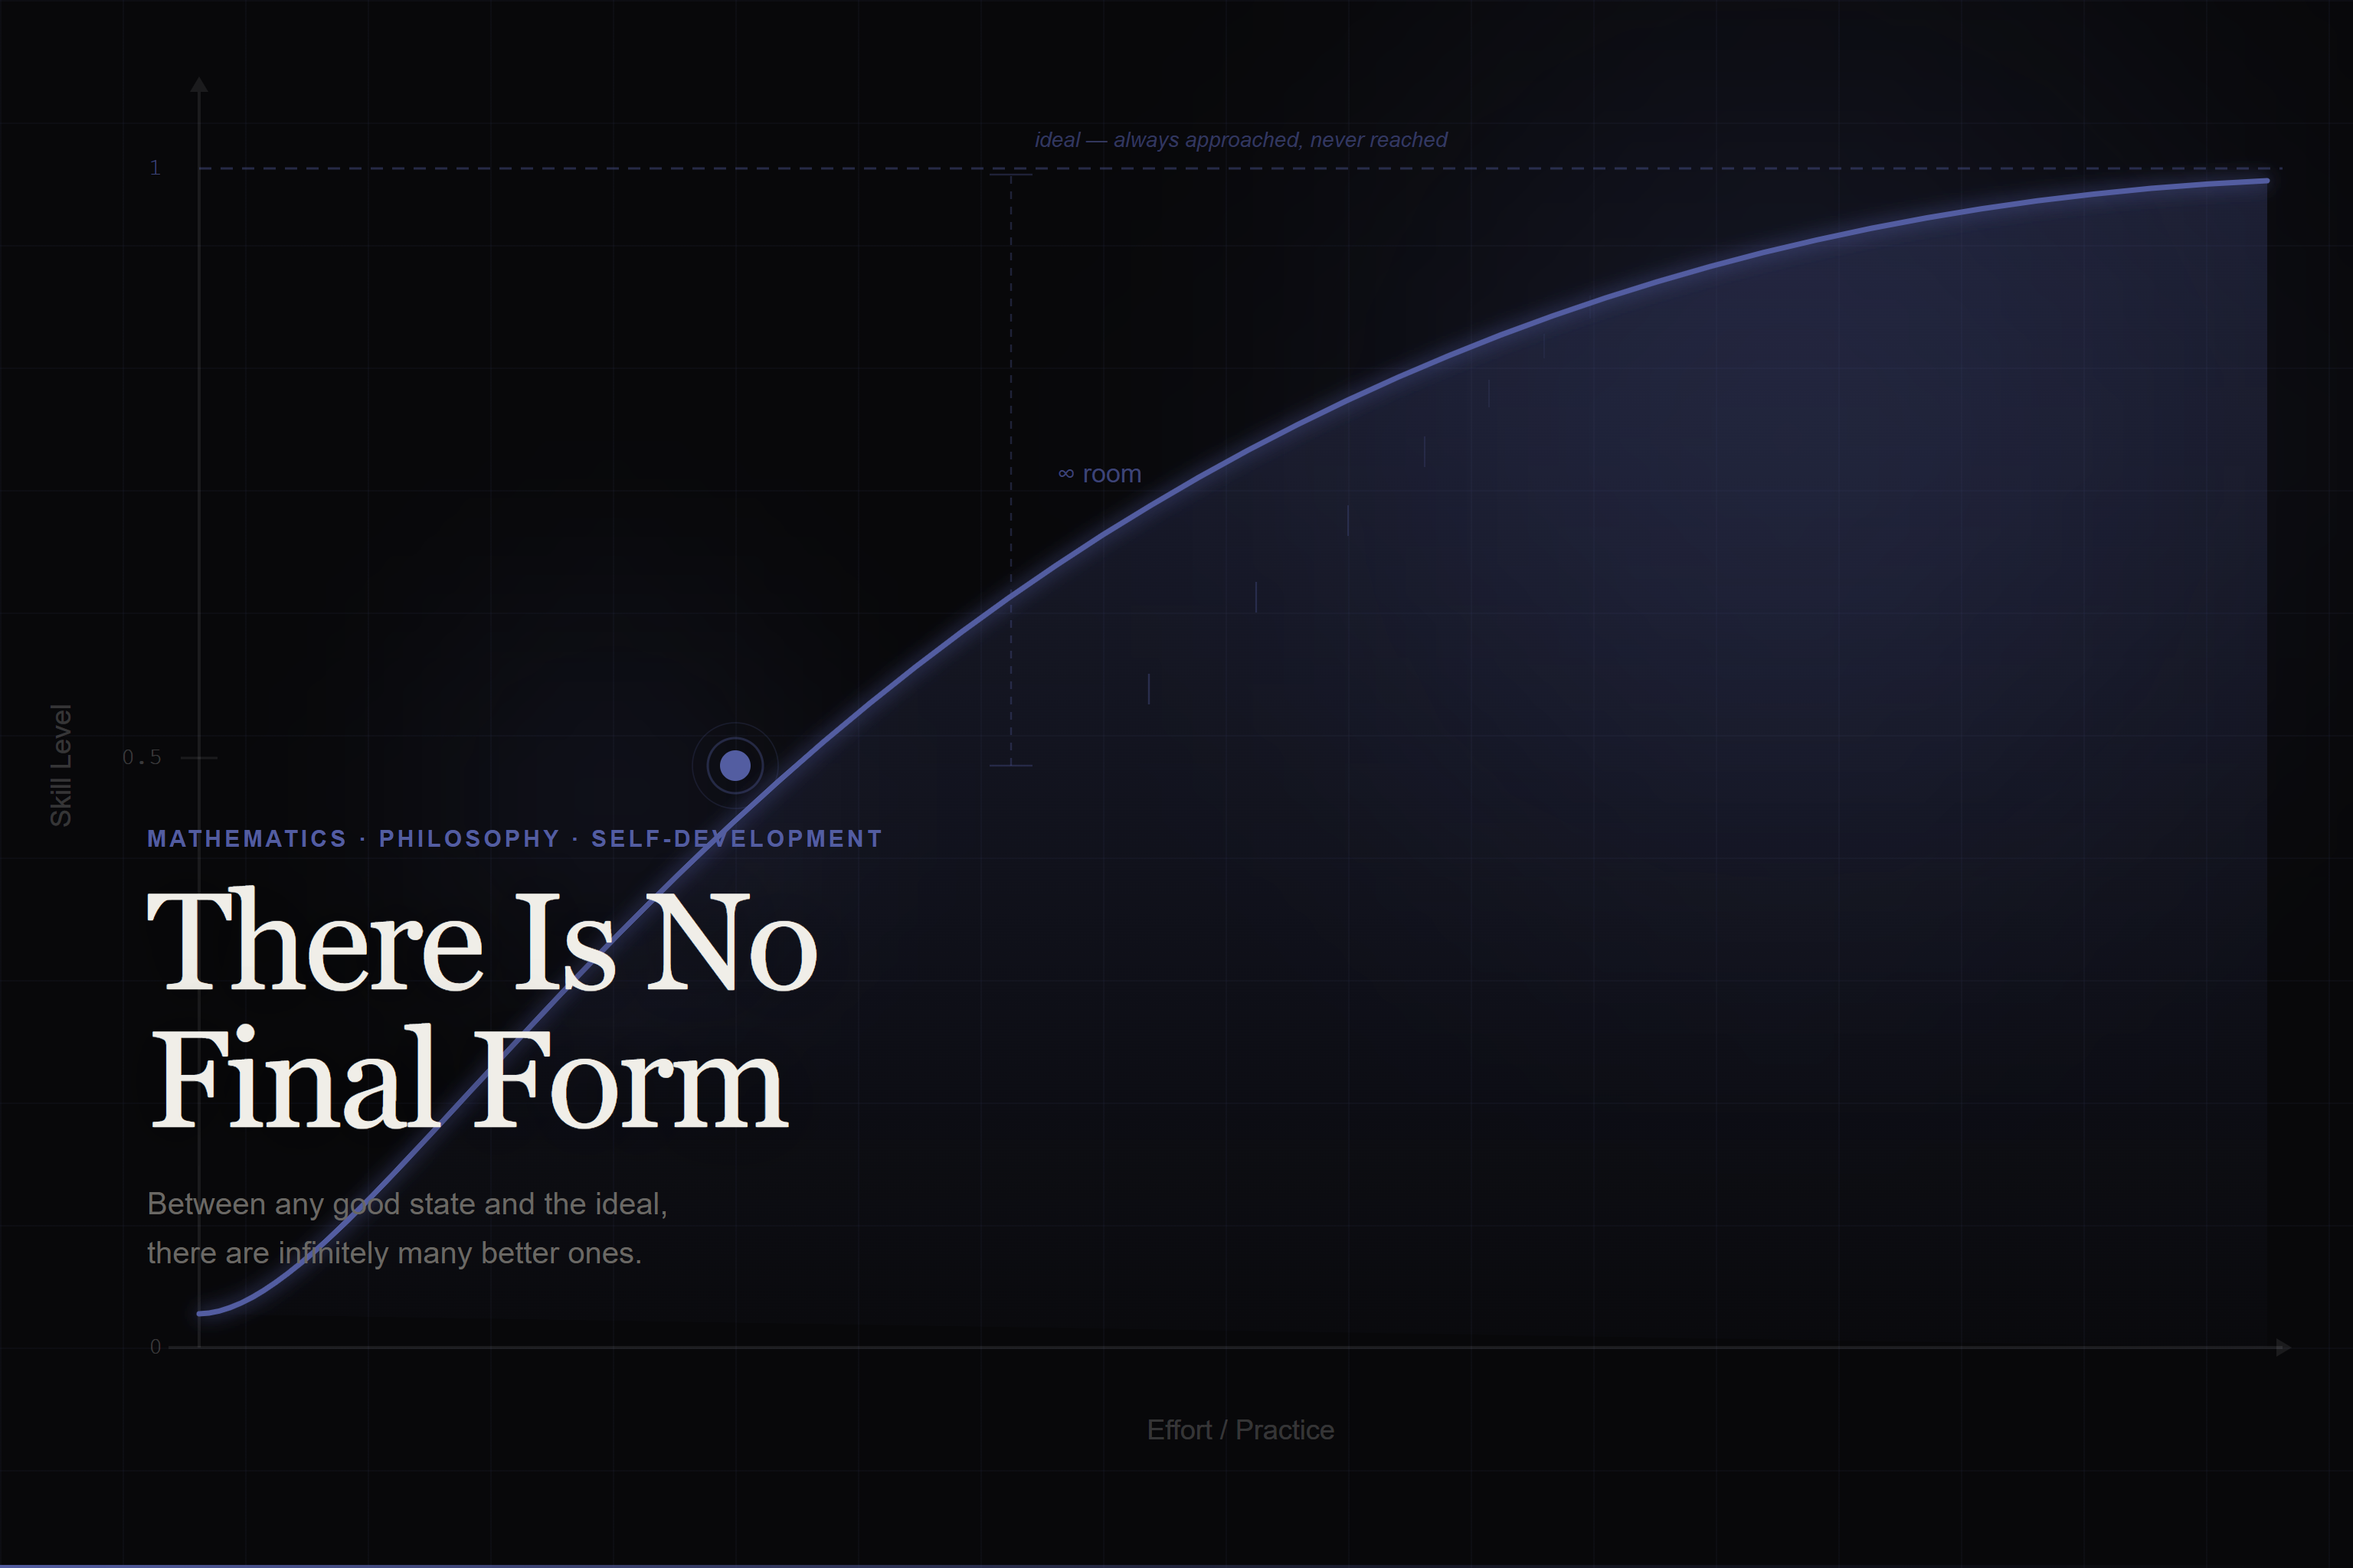
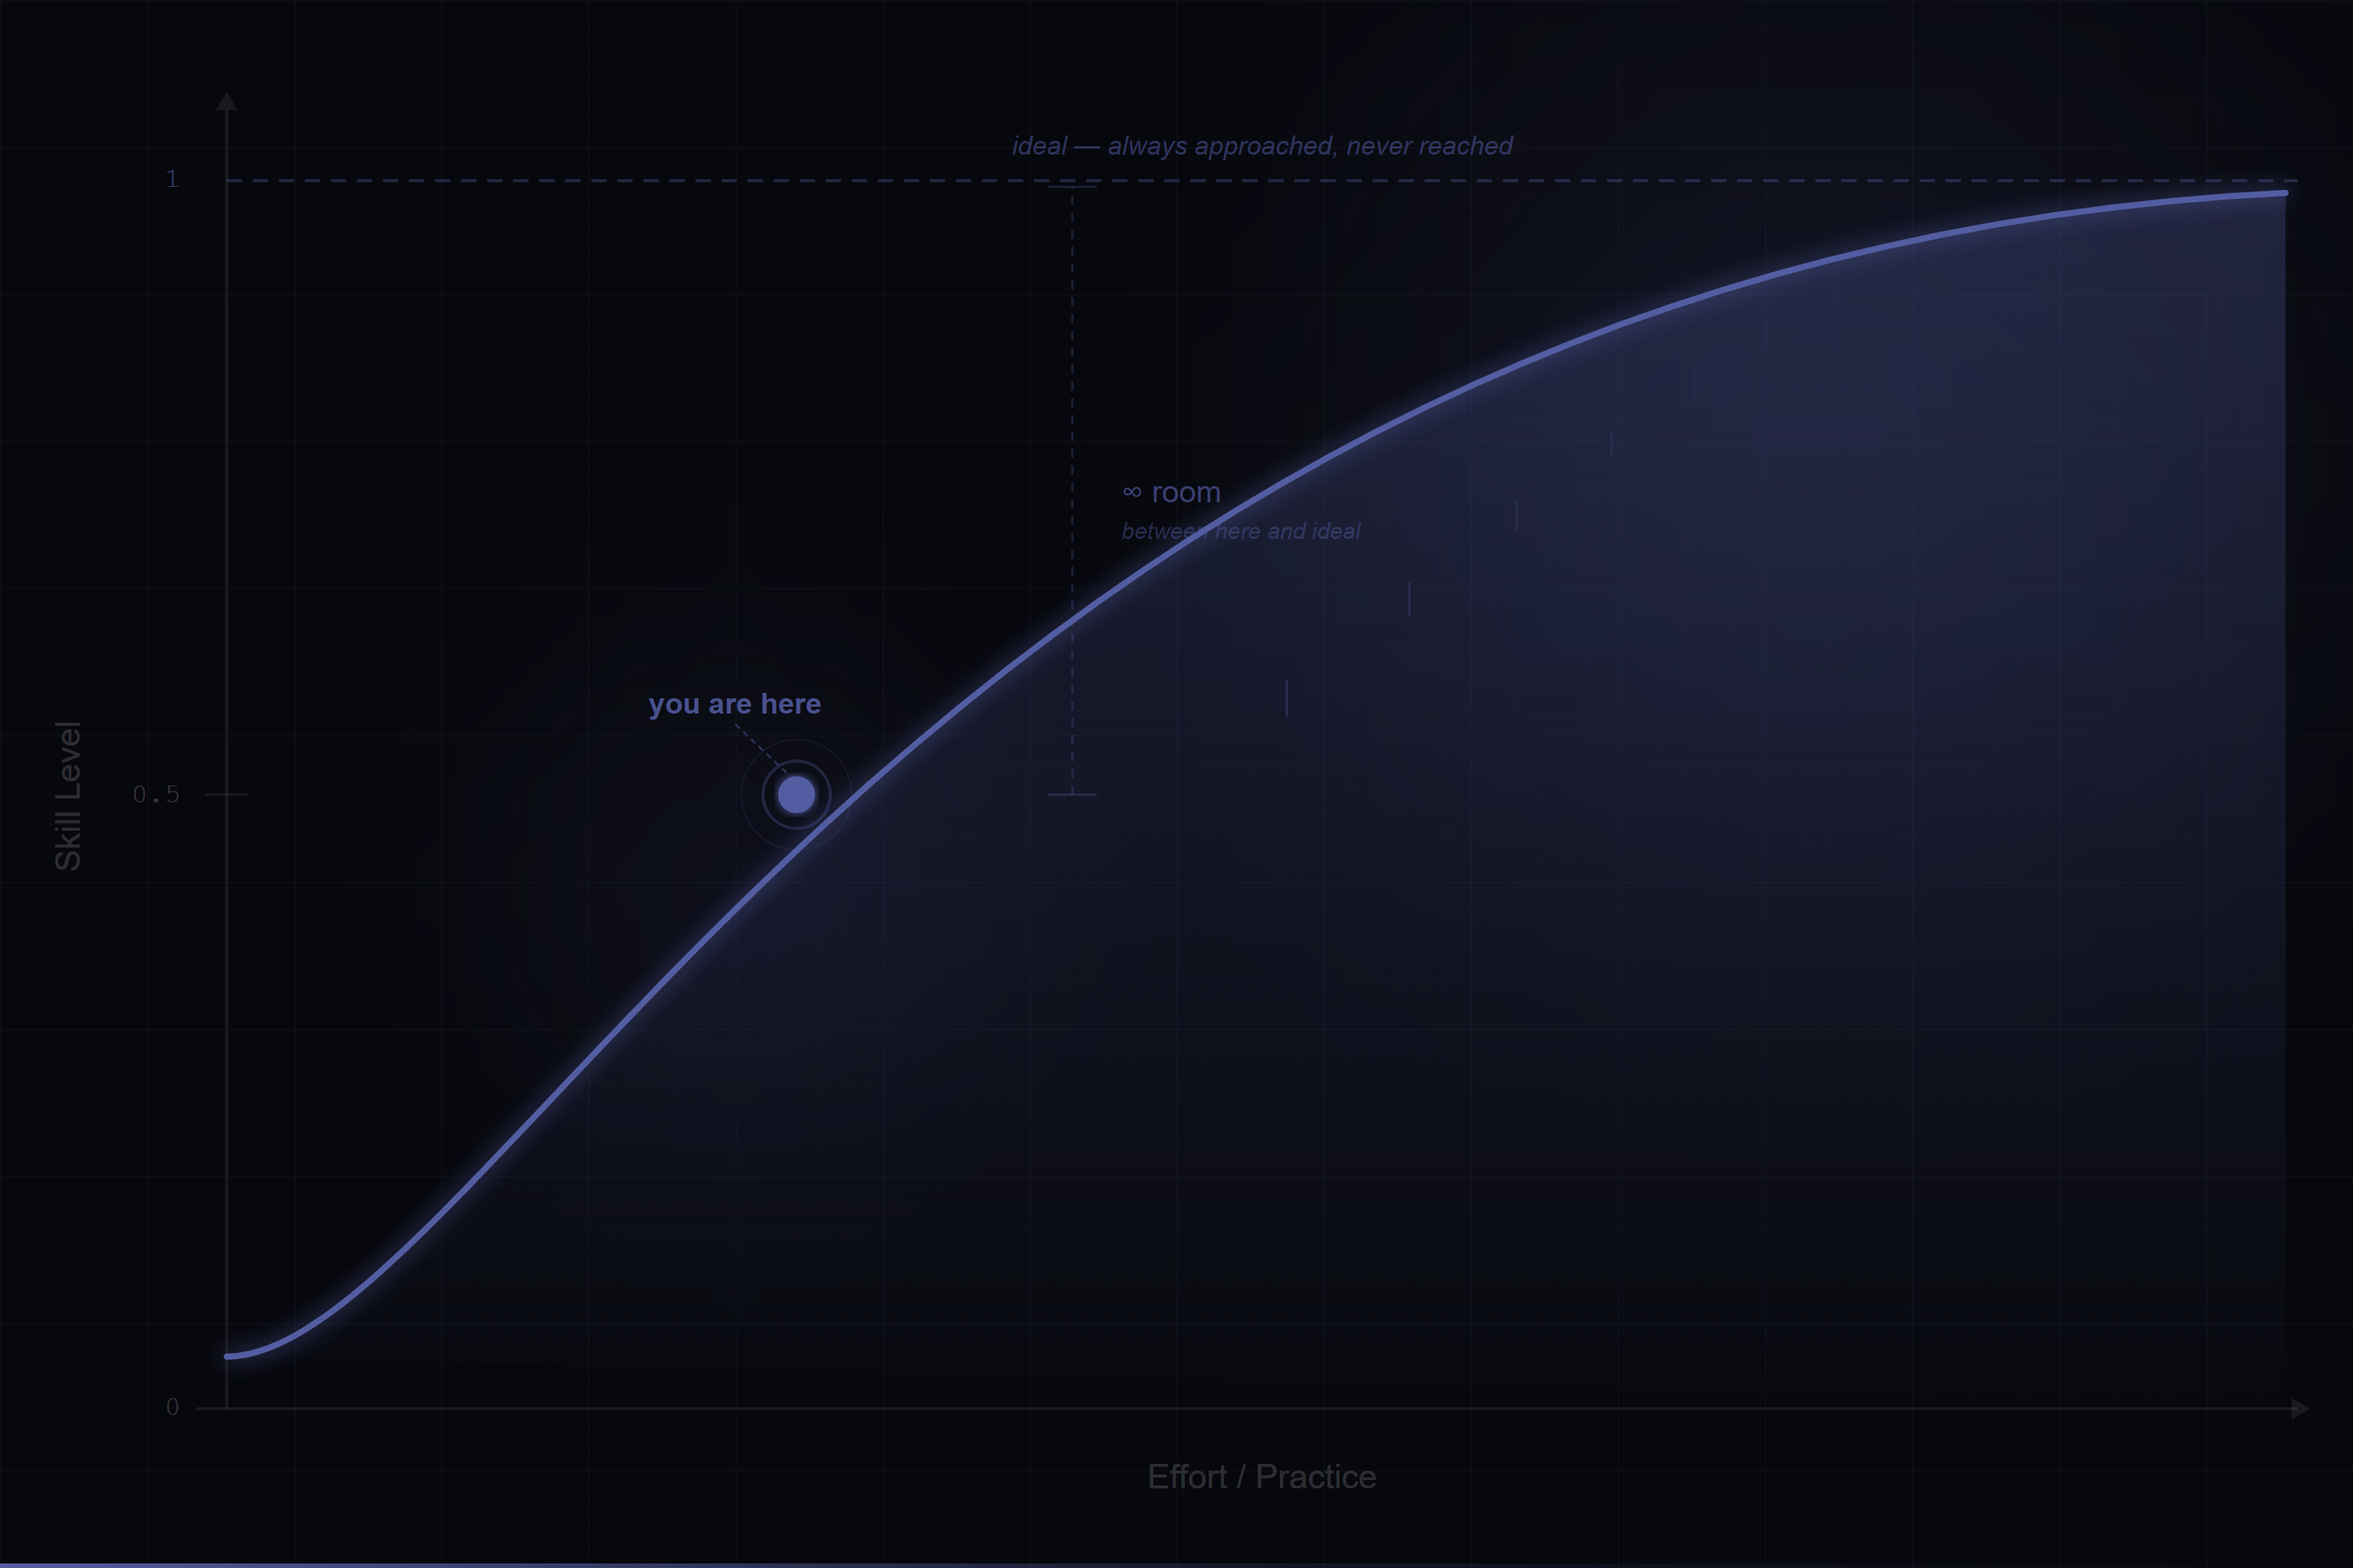
fix: post page — chart-only cover, formatted date, formatDate hbs helper

diff --git a/src/main.ts b/src/main.ts
@@ -16,6 +16,10 @@ async function bootstrap() {
   hbs.registerPartials(join(viewsPath, 'partials'));
   hbs.registerHelper('eq', (left: unknown, right: unknown) => left === right);
   hbs.registerHelper('or', (...args: unknown[]) => args.slice(0, -1).some(Boolean));
+  hbs.registerHelper('formatDate', (dateStr: string) => {
+    if (!dateStr) return '';
+    return new Date(dateStr).toLocaleDateString('en-US', { year: 'numeric', month: 'long', day: 'numeric' });
+  });
 
   const root = process.cwd();
   app.use('/css', express.static(join(root, 'css')));
